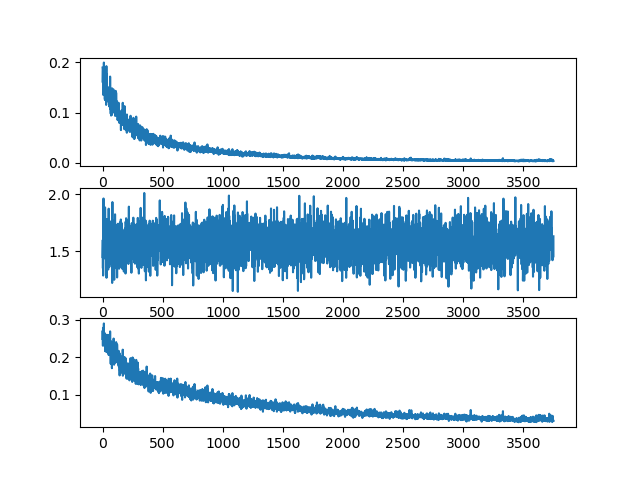
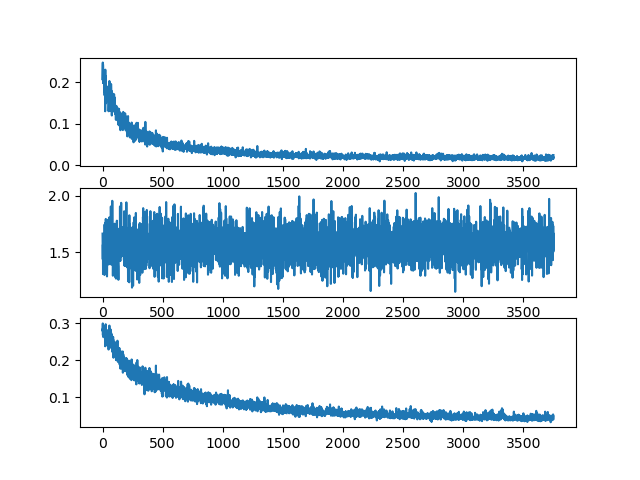
more prep for progress report

diff --git a/progress.html b/progress.html
@@ -9,7 +9,8 @@
 <link href="progress_files/libs/quarto-html/quarto-syntax-highlighting-2f5df379a58b258e96c21c0638c20c03.css" rel="stylesheet" id="quarto-text-highlighting-styles"><meta charset="utf-8">
   <meta name="generator" content="quarto-1.6.42">
 
-  <title>Untitled</title>
+  <meta name="author" content="Chris Jungerius">
+  <title>Causal vision progress update</title>
   <meta name="apple-mobile-web-app-capable" content="yes">
   <meta name="apple-mobile-web-app-status-bar-style" content="black-translucent">
   <meta name="viewport" content="width=device-width, initial-scale=1.0, maximum-scale=1.0, user-scalable=no, minimal-ui">
@@ -126,25 +127,76 @@
     <div class="slides">
 
 <section id="title-slide" class="quarto-title-block center">
-  <h1 class="title">Untitled</h1>
+  <h1 class="title">Causal vision progress update</h1>
 
 <div class="quarto-title-authors">
+<div class="quarto-title-author">
+<div class="quarto-title-author-name">
+Chris Jungerius 
 </div>
-
-</section>
-<section>
-<section id="causal-vision" class="title-slide slide level1 center">
-<h1>Causal vision</h1>
+</div>
+</div>
 
 </section>
 <section id="the-conceptproblem" class="slide level2">
 <h2>The concept/problem</h2>
 <p>How to know when stimuli share a common source integration of information across saccades/other interruptions: causal inference (depends on working memory).</p>
 <p>Requires integration of visual stimuli, determining probability of shared cause based on stimulus features (similarity) and knowledge/beliefs about the stimulus generating process</p>
-<p>One parametrization of this: mixture model of shared cause and separate cause cases.</p>
+</section>
+<section id="neural-network-single-stimulus-two-timesteps" class="slide level2">
+<h2>Neural network: single stimulus, two timesteps</h2>
+<ul>
+<li>architecture</li>
+<li>stimuli</li>
+<li>task</li>
+<li>results</li>
+</ul>
+</section>
+<section id="architecture" class="slide level2">
+<h2>Architecture</h2>
+<p>“vanilla” RNN</p>
+<p><span class="math inline">\(n_a\)</span> input neurons (+1 for fixation)</p>
+<p><span class="math inline">\(N\)</span> hidden neurons</p>
+<p>2 output neurons</p>
+</section>
+<section id="stimuli" class="slide level2">
+<h2>Stimuli</h2>
+<p>stimulus represented in a circular space spanned by <span class="math inline">\(n_a\)</span>:, activation a von mises bump on the input neurons (hyperparameters <span class="math inline">\(\kappa\)</span> and <span class="math inline">\(A\)</span>).</p>
+</section>
+<section id="task" class="slide level2">
+<h2>Task</h2>
+<pre><code>- fixation
+- initial (distractor) stimulus
+- second (target) stimulus
+- response period</code></pre>
+</section>
+<section id="task-1" class="slide level2">
+<h2>Task</h2>
+<h3 id="p">p</h3>
+<p>chance <span class="math inline">\(p\)</span> of shared vs different cause</p>
+<p>on every trial: “latent” first stimulus: uniform from circle latent second stimulus = shared cause ? latent first stimulus : new uniform draw</p>
+<p>add noise <span class="math inline">\(\epsilon\)</span> from <span class="math inline">\(N(0,\sigma_\epsilon^2)\)</span> to latent to represent sampling error (currently same for each timestep - could vary instead)</p>
+<p>output: 2d vector on the unit circle: same angle as input</p>
+<p>loss function: distance of output <span class="math inline">\(y\)</span> from <em>latent second stimulus</em> angle <span class="math inline">\(r\)</span>:</p>
+<p><span class="math display">\[
+\mathcal{L}(y, r) = \left(y_1 - \cos\left(\frac{2\pi r}{N_a}\right)\right)^2 + \left(y_2 - \sin\left(\frac{2\pi r}{N_a}\right)\right)^2
+\]</span></p>
+<ul>
+<li>results</li>
+</ul>
+<p>model learns task</p>
+<p>effect of <span class="math inline">\(p\)</span> on bias towards first stimulus</p>
+<p>effect of <span class="math inline">\(\sigma_\epsilon\)</span> on bias towards first stimulus</p>
+</section>
+<section id="neural-network-two-stimuli-two-timesteps" class="slide level2">
+<h2>Neural network: two stimuli, two timesteps</h2>
+<p>Same task as before but now there are two inputs, so: <span class="math inline">\(n_a^2\)</span> input neurons (+1 for fixation) 2d “multivariate von mises” bump still 2 output neurons</p>
+<p>in addition to noise, <span class="math inline">\(p_{shared}\)</span> for x: also <span class="math inline">\(p{shared}\)</span> for y, AND <em>covariance</em> <span class="math inline">\(\rho\)</span> (note: rho perhaps not best choice, what to use here? mutual information?)</p>
+<p>expectation: only effect of y on x bias if <span class="math inline">\(\rho \neq 0\)</span> - effect should scale with <span class="math inline">\(\Delta_y\)</span> (discussed with Paul yesterday)</p>
 </section>
 <section id="ideal-observer-model-not-circular-yet-bayesian-mixture-model" class="slide level2">
 <h2>Ideal observer model (not circular yet): Bayesian mixture model</h2>
+<p>One parametrization of this: mixture model of shared cause and separate cause cases.</p>
 <h3 id="d-case">1D case:</h3>
 <p>given two timepoints <span class="math inline">\(t = 1, 2\)</span> and two stimuli <span class="math inline">\(x_t\)</span> each sampled with noise from latent cause <span class="math inline">\(\mu_t\)</span> with standard deviation <span class="math inline">\(\sigma\)</span>:</p>
 <p><span class="math inline">\(x_t \sim N(\mu_t, \sigma^2)\)</span></p>
@@ -168,38 +220,18 @@
 <p>so now possibility of mixture for both x and y: so we can be in 4 states</p>
 <p>Cx=1 &amp; Cy=1 Cx=1 &amp; Cy=2 Cx=2 &amp; Cy=1 Cx=2 &amp; Cy=2</p>
 <p>model latent state mixture as a 4 simplex. works!</p>
-<h3 id="circular-1d-case">Circular 1D case:</h3>
+<h3 id="generative-model-simple-circular-1d-case">Generative model: Simple circular 1D case</h3>
 <p>given two stimuli <span class="math inline">\(x_t\)</span>, <span class="math inline">\(x_1\)</span> and <span class="math inline">\(x_2\)</span></p>
-<p>each sampled with noise from latent cause <span class="math inline">\(\mu\)</span> with variance <span class="math inline">\(\kappa\)</span>:</p>
-<p><span class="math inline">\(x \sim VonMises(\mu, \kappa)\)</span></p>
-<p>assume latent causes mu are themselves drawn from latent distribution <span class="math inline">\(mu \sim VonMises(\nu, \kappa)\)</span></p>
-<p>if x_1 and x_2 do not share a common cause, they are each drawn from a distribution with mean nu and variance tau^2 + sigma^2. alternatively: they come from a multivariate normal with means [nu, nu] and variances [sigma^2 + tau^2, 0, 0, sigma<sup>2+tau</sup>2]</p>
-<p>if x_1 and x_2 have a common cause mu, they marginally covary with : therefore, one can say they come from a multivariate normal with means [nu, nu] and variances [sigma^2 + tau^2, tau^2, tau^2, sigma^2 + tau^2].</p>
+<p>each sampled with noise from latent cause <span class="math inline">\(\mu_t\)</span> with concentration <span class="math inline">\(\kappa\)</span>:</p>
+<p><span class="math inline">\(x_t \sim VonMises(\mu_t, \kappa_{sampling})\)</span></p>
+<p>assume latent causes mu are uniformly distributed in <span class="math inline">\([0, 2\pi)\)</span>:</p>
+<p><span class="math inline">\(\mu_t \sim U(-\pi,\pi)\)</span></p>
+<p>if <span class="math inline">\(x_1\)</span> and <span class="math inline">\(x_2\)</span> do not share a common cause, they are each drawn from circular uniform distribution.</p>
+<p>if x_1 and x_2 have a common cause mu, they marginally covary with :</p>
+<p>therefore, one can say they come from a multivariate normal with means [nu, nu] and variances [sigma^2 + tau^2, tau^2, tau^2, sigma^2 + tau^2].</p>
 <p>say there is a probability of sharing a common cause theta (mixture parameter) we can model this as a mixture model of two multivariate gaussians.</p>
-</section>
-<section id="neural-network-single-stimulus-two-timesteps" class="slide level2">
-<h2>Neural network: single stimulus, two timesteps</h2>
-<ul>
-<li>architecture</li>
-</ul>
-<p>n_a input neurons N hidden neurons 2 output neurons</p>
-<ul>
-<li>stimuli</li>
-</ul>
-<p>“spatial” input: stimulus in a circular space, activation a von mises bump on the n_a input neurons initial (distractor) stimulus second (target) stimulus chance p of shared vs different cause - task</p>
-<p>output: 2d vector on the unit circle: same angle as input</p>
-<ul>
-<li>results</li>
-</ul>
-<p>model learns task efficiently</p>
-<p>effect of noise, covariance on biases</p>
-</section>
-<section id="neural-network-two-stimuli-two-timesteps" class="slide level2">
-<h2>Neural network: two stimuli, two timesteps</h2>
-<p>Same task as before but now there are two inputs, so: n_a^2 input neurons 2d “multivariate von mises” bump still 2 output neurons</p>
-<p>in addition to noise, p(shared cause) for x: also p(shared cause) for y, AND <em>covariance</em> rho expectation: only effect of y on x bias if covariance of x and y during training is high</p>
 
-</section></section>
+</section>
     </div>
   <div class="quarto-auto-generated-content" style="display: none;">
 <div class="footer footer-default">

diff --git a/main.py b/main.py
@@ -71,8 +71,8 @@ stim_timesteps_2 = int(T_stim_2 / dt)
 delay_timesteps = int(T_delay / dt)
 resp_timesteps = int(T_resp / dt)
 
-sigma = .2
-p = .50
+sigma = 0.2
+p = 0.8
 
 eps1 = 0.9
 eps2 = (1 - eps1**2) ** 0.5
@@ -97,19 +97,19 @@ for b in tqdm(range(num_batches)):
     opt.zero_grad()
 
     first_indices = generate_batch_of_continuous_wm_targets(n_a, batch_size)
-    second_indices = p * first_indices + torch.sqrt(1 - p**2) * generate_batch_of_continuous_wm_targets(n_a, batch_size)
-    #same_different = generate_same_different(batch_size, p)
-    #second_indices = torch.where(same_different==1,first_indices, second_indices)
+    second_indices = generate_batch_of_continuous_wm_targets(n_a, batch_size)
+    same_different = generate_same_different(batch_size, p)
+    second_indices = torch.where(same_different==1,first_indices, second_indices)
 
     #batch_steps = torch.randint(6,first_indices.size())
 
     #second_indices = (first_indices + batch_steps) % n_a
 
-    #sigma_1 = torch.randn_like(first_indices) * sigma
-    #sigma_2 = torch.randn_like(first_indices) * sigma
+    sigma_1 = torch.randn_like(first_indices) * sigma
+    sigma_2 = torch.randn_like(first_indices) * sigma
 
-    first_input = first_indices #(first_indices + sigma_1) % n_a
-    second_input = second_indices #(second_indices + sigma_2) % n_a
+    first_input = (first_indices + sigma_1) % n_a
+    second_input = (second_indices + sigma_2) % n_a
 
 
     rnn.initialise_u(batch_size)
@@ -294,3 +294,4 @@ sns.regplot(x="delta_theta",y="error_theta",data=df,x_bins=np.arange(0, 2*torch.
 
 
 # %%
+

diff --git a/kong_task.py b/kong_task.py
@@ -59,9 +59,9 @@ stim_timesteps_2 = int(T_stim_2 / dt)
 delay_timesteps = int(T_delay / dt)
 resp_timesteps = int(T_resp / dt)
 
-sigma = .75
+sigma = .2
 p = 0.5
-q = 0.8
+q = 0.5
 
 eps1 = 0.9
 eps2 = (1 - eps1**2) ** 0.5
@@ -163,17 +163,17 @@ for b in tqdm(range(num_batches)):
 
 ### RUN TEST TRIAL FOR ACTIVITY
 #target_indices =  torch.tensor([[i,j] for i in range(1,n_a+1) for j in range(1,n_a+1)])
-first_indices = torch.rand(2000,2) * n_a
-second_indices = torch.rand(2000,2) * n_a
+first_indices = torch.rand(4000,2) * n_a
+second_indices = torch.rand(4000,2) * n_a
 test_batch_size = first_indices.shape[0]
 #batch_steps = torch.randint(6, first_indices.size())
 #second_indices = (first_indices + steps[batch_steps]) % n_a
 rnn.initialise_u(test_batch_size)
 eta_tilde = randn(test_batch_size, N)
 #same_different = generate_same_different(test_batch_size)
-same_different = torch.fill(first_indices, 2)
+same_different = torch.fill(first_indices, 0)
 same_different[:,1] = torch.randint(1,3,(test_batch_size,))
-second_indices = torch.where(same_different==1,first_indices, second_indices)
+second_indices[:,1] = torch.where(same_different[:,1]==2,(first_indices[:,1]+n_a/2) % n_a,first_indices[:,1])
 #second_stim = distractor_indices #torch.where(same_different==1,target_indices, distractor_indices)
 
 #sigma_1 = torch.randn_like(target_indices) * 0.2
